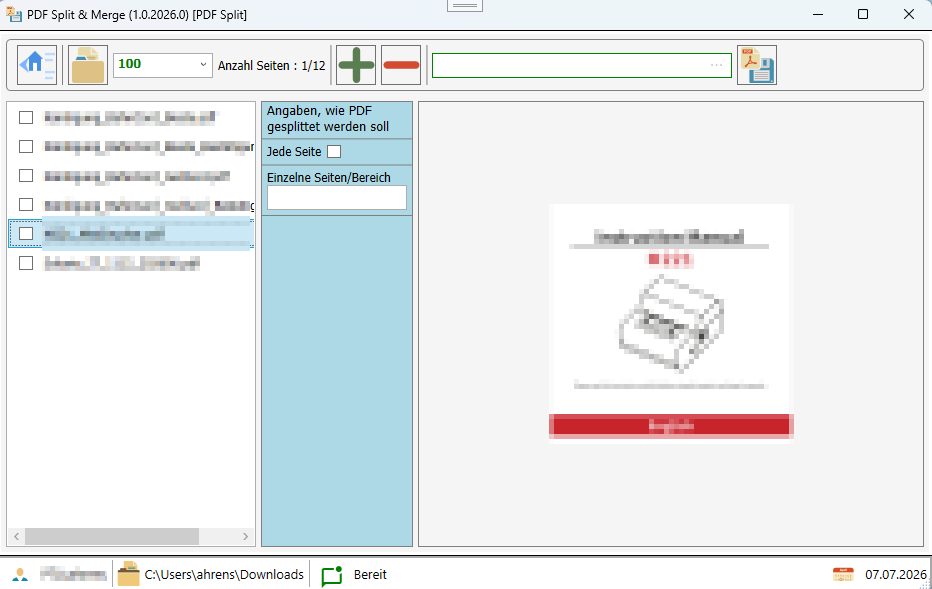
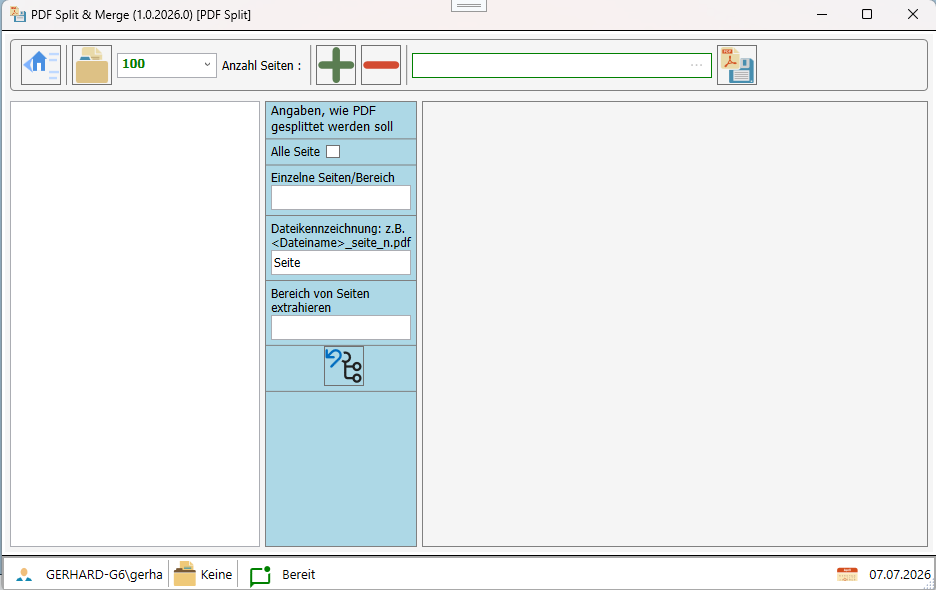
*

Changed region(s): [[0.0, 0.0, 1.0, 1.0], [0.6223, 0.3973, 0.8401, 0.6723], [0.5912, 0.7029, 0.8712, 0.764]]

diff --git a/MergePDF/View/PDFSplitView.xaml b/MergePDF/View/PDFSplitView.xaml
@@ -261,7 +261,7 @@
                         Margin="5,5,0,0"
                         Orientation="Horizontal">
                         <TextBlock FontWeight="Medium" Text="Alle Seite" />
-                        <CheckBox Margin="5,0,0,0" IsChecked="{Binding Path=SplittAllPages, UpdateSourceTrigger=PropertyChanged}" />
+                        <CheckBox Margin="5,0,0,0" IsChecked="{Binding Path=SplitAllPages, UpdateSourceTrigger=PropertyChanged}" />
                     </StackPanel>
 
                     <Border
@@ -307,7 +307,8 @@
                         Margin="5,0,0,0"
                         HorizontalAlignment="Left"
                         VerticalAlignment="Center"
-                        Text="{Binding Path=FileSuffix, UpdateSourceTrigger=PropertyChanged}" />
+                        VerticalContentAlignment="Center"
+                        Text="{Binding Path=FileSuffix, UpdateSourceTrigger=PropertyChanged, FallbackValue=~FileSuffix}" />
 
                     <Border
                         Grid.Row="9"
@@ -345,8 +346,8 @@
                         Margin="5,0,0,0"
                         HorizontalAlignment="Center"
                         Background="Transparent"
-                        Command="{Binding Path=OpenFolderCommand}"
-                        CommandParameter="{x:Static core:CommandButtons.OpenFolder}"
+                        Command="{Binding Path=ResetCommand}"
+                        CommandParameter="{x:Static core:CommandButtons.ResetInput}"
                         ToolTip="Eingaben zurücksetzten">
                         <Image Source="{StaticResource ResourceKey=IconReset}" Stretch="Uniform" />
                     </Button>

diff --git a/MergePDF/View/PDFSplitView.xaml.cs b/MergePDF/View/PDFSplitView.xaml.cs
@@ -26,6 +26,7 @@ namespace MergePDF.View
 
     using System.Collections.ObjectModel;
     using System.IO;
+    using System.Runtime.Versioning;
     using System.Windows;
     using System.Windows.Controls;
     using System.Windows.Input;
@@ -35,6 +36,7 @@ namespace MergePDF.View
     /// <summary>
     /// Interaktionslogik für PDFSplitView.xaml
     /// </summary>
+    [SupportedOSPlatform("Windows")]
     public partial class PDFSplitView : UserControlBase
     {
         private FpdfDocumentT _document;
@@ -51,12 +53,14 @@ namespace MergePDF.View
             WeakEventManager<UserControl, RoutedEventArgs>.AddHandler(this, "Loaded", this.OnLoaded);
 
             this.CurrentCtorArgs = args;
+            this.SplitPageVarinate = SplitVariante.None;
 
             this.GoBackCommand = new CommandBase(commandParam => this.OnGoBack(commandParam), () => true);
             this.OpenFolderCommand = new CommandBase(commandParam => this.OnOpenFolder(commandParam), () => true);
             this.PlusPageCommand = new CommandBase(commandParam => this.OnPlusMinusPage(commandParam), () => true);
             this.MinusPageCommand = new CommandBase(commandParam => this.OnPlusMinusPage(commandParam), () => true);
             this.SavePDFCommand = new CommandBase(commandParam => this.OnSavePDF(commandParam), () => true);
+            this.ResetCommand = new CommandBase(commandParam => this.OnReset(commandParam), () => true);
 
             this.DataContext = this;
         }
@@ -67,6 +71,7 @@ namespace MergePDF.View
         public CommandBase PlusPageCommand { get; private set; }
         public CommandBase MinusPageCommand { get; private set; }
         public CommandBase SavePDFCommand { get; private set; }
+        public CommandBase ResetCommand { get; private set; }
 
         public ObservableCollection<PDFFileItem> PDFFilesSource
         {
@@ -110,22 +115,22 @@ namespace MergePDF.View
             set => base.SetValue(value);
         }
 
-        public bool SplittAllPages
+        public bool SplitAllPages
         {
             get => base.GetValue<bool>();
-            set => base.SetValue(value);
+            set => base.SetValue(value, this.BoolHandler);
         }
 
         public string SinglePages
         {
             get => base.GetValue<string>();
-            set => base.SetValue(value);
+            set => base.SetValue(value, this.StringHandler);
         }
 
         public string ExtractRangePages
         {
             get => base.GetValue<string>();
-            set => base.SetValue(value);
+            set => base.SetValue(value, this.StringHandler);
         }
 
         public string FileSuffix
@@ -136,6 +141,7 @@ namespace MergePDF.View
 
         private ChangeViewEventArgs CurrentCtorArgs { get; set; }
         private MessageBase Message { get; } = new MessageBase();
+        private SplitVariante SplitPageVarinate { get; set; }
 
         #endregion Properties
 
@@ -240,16 +246,24 @@ namespace MergePDF.View
             {
                 if (button == CommandButtons.SavePDF)
                 {
-                    if (this.SplittAllPages == true)
+                    if(this.SplitPageVarinate == SplitVariante.AllPages)
                     {
-                        this.SplitAllPages();
+                        this.SplitAllPagesHandler();
                     }
-                    else
+                    else if(this.SplitPageVarinate == SplitVariante.SinglePages)
                     {
                         string splitRange = this.ParseTextBoxInput();
                         if (string.IsNullOrEmpty(splitRange) == false)
                         {
                             this.SplitSelectedPage(splitRange);
+                        }
+                    }
+                    else if (this.SplitPageVarinate == SplitVariante.RangePages)
+                    {
+                        string splitRange = this.ParseTextBoxInput();
+                        if (string.IsNullOrEmpty(splitRange) == false)
+                        {
+                            this.ExtractPages(splitRange);
                         }
                     }
 
@@ -258,7 +272,21 @@ namespace MergePDF.View
             }
         }
 
-        private void SplitAllPages()
+        private void OnReset(object commandParam)
+        {
+            if (commandParam != null && commandParam is CommandButtons button)
+            {
+                if (button == CommandButtons.ResetInput)
+                {
+                    this.SplitPageVarinate = SplitVariante.None;
+                    this.SplitAllPages = false;
+                    this.SinglePages = string.Empty;
+                    this.ExtractRangePages = string.Empty;
+                }
+            }
+        }
+
+        private async void SplitAllPagesHandler()
         {
             if (this.SelectedPdfFile == null)
             {
@@ -288,10 +316,16 @@ namespace MergePDF.View
                         singlePageDocument.Save(outputPdf);
                     }
                 }
+
+                if (App.EventAgg.IsSubscription<StatusEvent>() == true)
+                {
+                    string saveOK = $"PDF Datei unter {this.SplittFilename} gespeichert";
+                    await App.EventAgg.PublishAsync(new StatusEvent("Bereit"));
+                }
             }
         }
 
-        private void SplitSelectedPage(string splitRange)
+        private async void SplitSelectedPage(string splitRange)
         {
             PDFFileItem SelectedPdfFile = this.PDFFilesSource.FirstOrDefault(f => f.IsSelectedItem == true);
             List<int> splitRangeSorce = splitRange.Split(new[] { ';', ',' }, StringSplitOptions.RemoveEmptyEntries).Select(int.Parse).ToList();
@@ -312,11 +346,21 @@ namespace MergePDF.View
                         singlePageDocument.Save(outputPdf);
                     }
                 }
+
+                if (App.EventAgg.IsSubscription<StatusEvent>() == true)
+                {
+                    string saveOK = $"PDF Datei unter {this.SplittFilename} gespeichert";
+                    await App.EventAgg.PublishAsync(new StatusEvent("Bereit"));
+                }
             }
         }
 
-        private void ExtractRangePages(int startSeite, int endSeite)
+        private async void ExtractPages(string splitRange)
         {
+            List<int> splitRangeSorce = splitRange.Split(new[] { ';', ',' }, StringSplitOptions.RemoveEmptyEntries).Select(int.Parse).ToList();
+
+            int startSeite = splitRangeSorce.First();
+            int endSeite = splitRangeSorce.Last();
             // 1. Quelldatei im ReadOnly-Modus öffnen
             using (PdfDocument inputDocument = PdfReader.Open(SelectedPdfFile.Fullname, PdfDocumentOpenMode.Import))
             {
@@ -338,6 +382,12 @@ namespace MergePDF.View
                         // 4. Neues Dokument speichern
                         zielDokument.Save(this.SplittFilename);
                     }
+                }
+
+                if (App.EventAgg.IsSubscription<StatusEvent>() == true)
+                {
+                    string saveOK = $"PDF Datei unter {this.SplittFilename} gespeichert";
+                    await App.EventAgg.PublishAsync(new StatusEvent("Bereit"));
                 }
             }
         }
@@ -587,7 +637,12 @@ namespace MergePDF.View
         private string ParseTextBoxInput()
         {
             // 1. Text auslesen und Strichpunkte vereinheitlichen (Semikolon als Trenner)
-            string rawInput = this.SinglePages;
+            string rawInput = string.IsNullOrEmpty(this.SinglePages) == false ? this.SinglePages : this.ExtractRangePages;
+
+            if (string.IsNullOrEmpty(rawInput))
+            {
+                rawInput = string.IsNullOrEmpty(this.ExtractRangePages) == false ? this.ExtractRangePages : this.SinglePages;
+            }
 
             // 2. Zahlen und Bereiche extrahieren
             var parsedNumbers = new HashSet<int>();
@@ -624,6 +679,34 @@ namespace MergePDF.View
 
             // 4. Ergebnis zurück in die TextBox schreiben (oder anderweitig verwenden)
             return result;
+        }
+
+        private void BoolHandler(bool arg1, string arg2)
+        {
+            if (arg2.Equals("SplitAllPages") == true)
+            {
+                this.SplitPageVarinate = arg1 == true ? SplitVariante.AllPages : SplitVariante.None;
+            }
+            else
+            {
+                this.SplitPageVarinate = SplitVariante.None;
+            }
+        }
+
+        private void StringHandler(string arg1, string arg2)
+        {
+            if (arg2.Equals("SinglePages") == true)
+            {
+                this.SplitPageVarinate = string.IsNullOrEmpty(arg1) == false ? SplitVariante.SinglePages : SplitVariante.None;
+            }
+            else if (arg2.Equals("ExtractRangePages") == true)
+            {
+                this.SplitPageVarinate = string.IsNullOrEmpty(arg1) == false ? SplitVariante.RangePages : SplitVariante.None;
+            }
+            else
+            {
+                this.SplitPageVarinate = SplitVariante.None;
+            }
         }
     }
 }

diff --git a/MergePDF/Core/SplitVariante.cs b/MergePDF/Core/SplitVariante.cs
@@ -1,0 +1,31 @@
+//-----------------------------------------------------------------------
+// <copyright file="SplitVariante.cs" company="Lifeprojects.de">
+//     Class: SplitVariante
+//     Copyright © Lifeprojects.de 2026
+// </copyright>
+//
+// <author>GERHARD-G6\gerha - Lifeprojects.de</author>
+// <email>[email redacted]</email>
+// <date>07.07.2026</date>
+//
+// <summary>
+// Varianten für das Splitten von PDF-Dateien
+// </summary>
+//-----------------------------------------------------------------------
+
+namespace MergePDF.Core
+{
+    using System.ComponentModel;
+
+    public enum SplitVariante : int
+    {
+        [Description("Keine Auswahl")]
+        None = 0,
+        [Description("Alle Seiten")]
+        AllPages = 1,
+        [Description("Einzelne Seiten")]
+        SinglePages = 2,
+        [Description("Seitenbereich")]
+        RangePages = 3,
+    }
+}

diff --git a/MergePDF/Core/Factory/CommandButtons.cs b/MergePDF/Core/Factory/CommandButtons.cs
@@ -18,6 +18,8 @@
         PDFMerge = 5,
         [Description("Ordner öffnen")]
         OpenFolder = 6,
+        [Description("Eingabe in PDF Split löschen")]
+        ResetInput = 7,
         [Description("Informationen")]
         InformationPopup = 20,
         [Description("Einstellungen")]

diff --git a/README.md b/README.md
@@ -12,6 +12,7 @@ Das Projekt dient dazu, PDF Dateien zu splitten und zusammenzufügen.
 
 ## Splitten von PDF Dateien
 
+Für das splitten von PDF Dateien stehen verschiedne Möglichkeiten zur Verfügung. Es können einzelne Seiten, ein Bereich von Seiten oder jede Seite in eine eigene Datei gespeichert werden.
 ![Merge Dialog](SplitPDFView.png)
 
 ## Zusammenführen von PDF Dateien